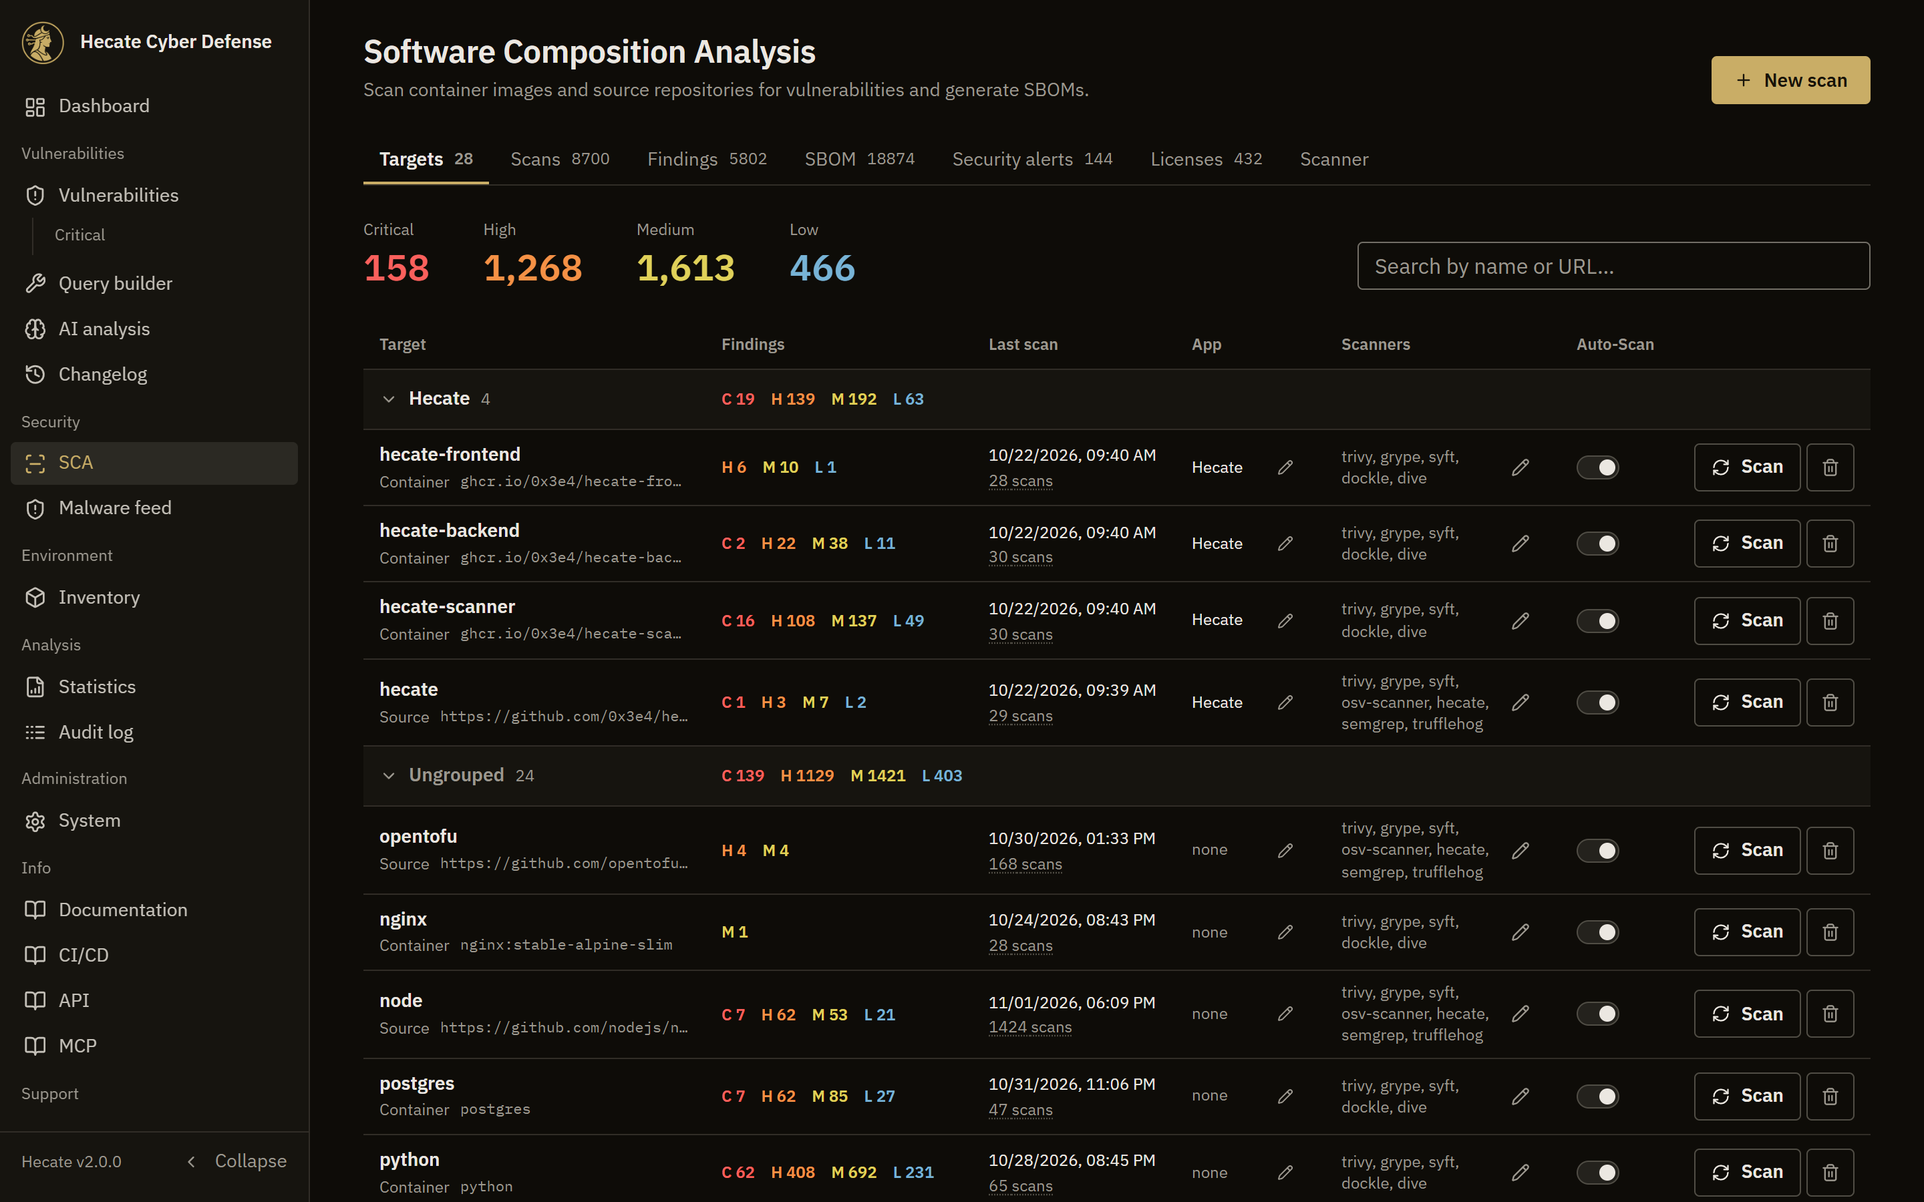
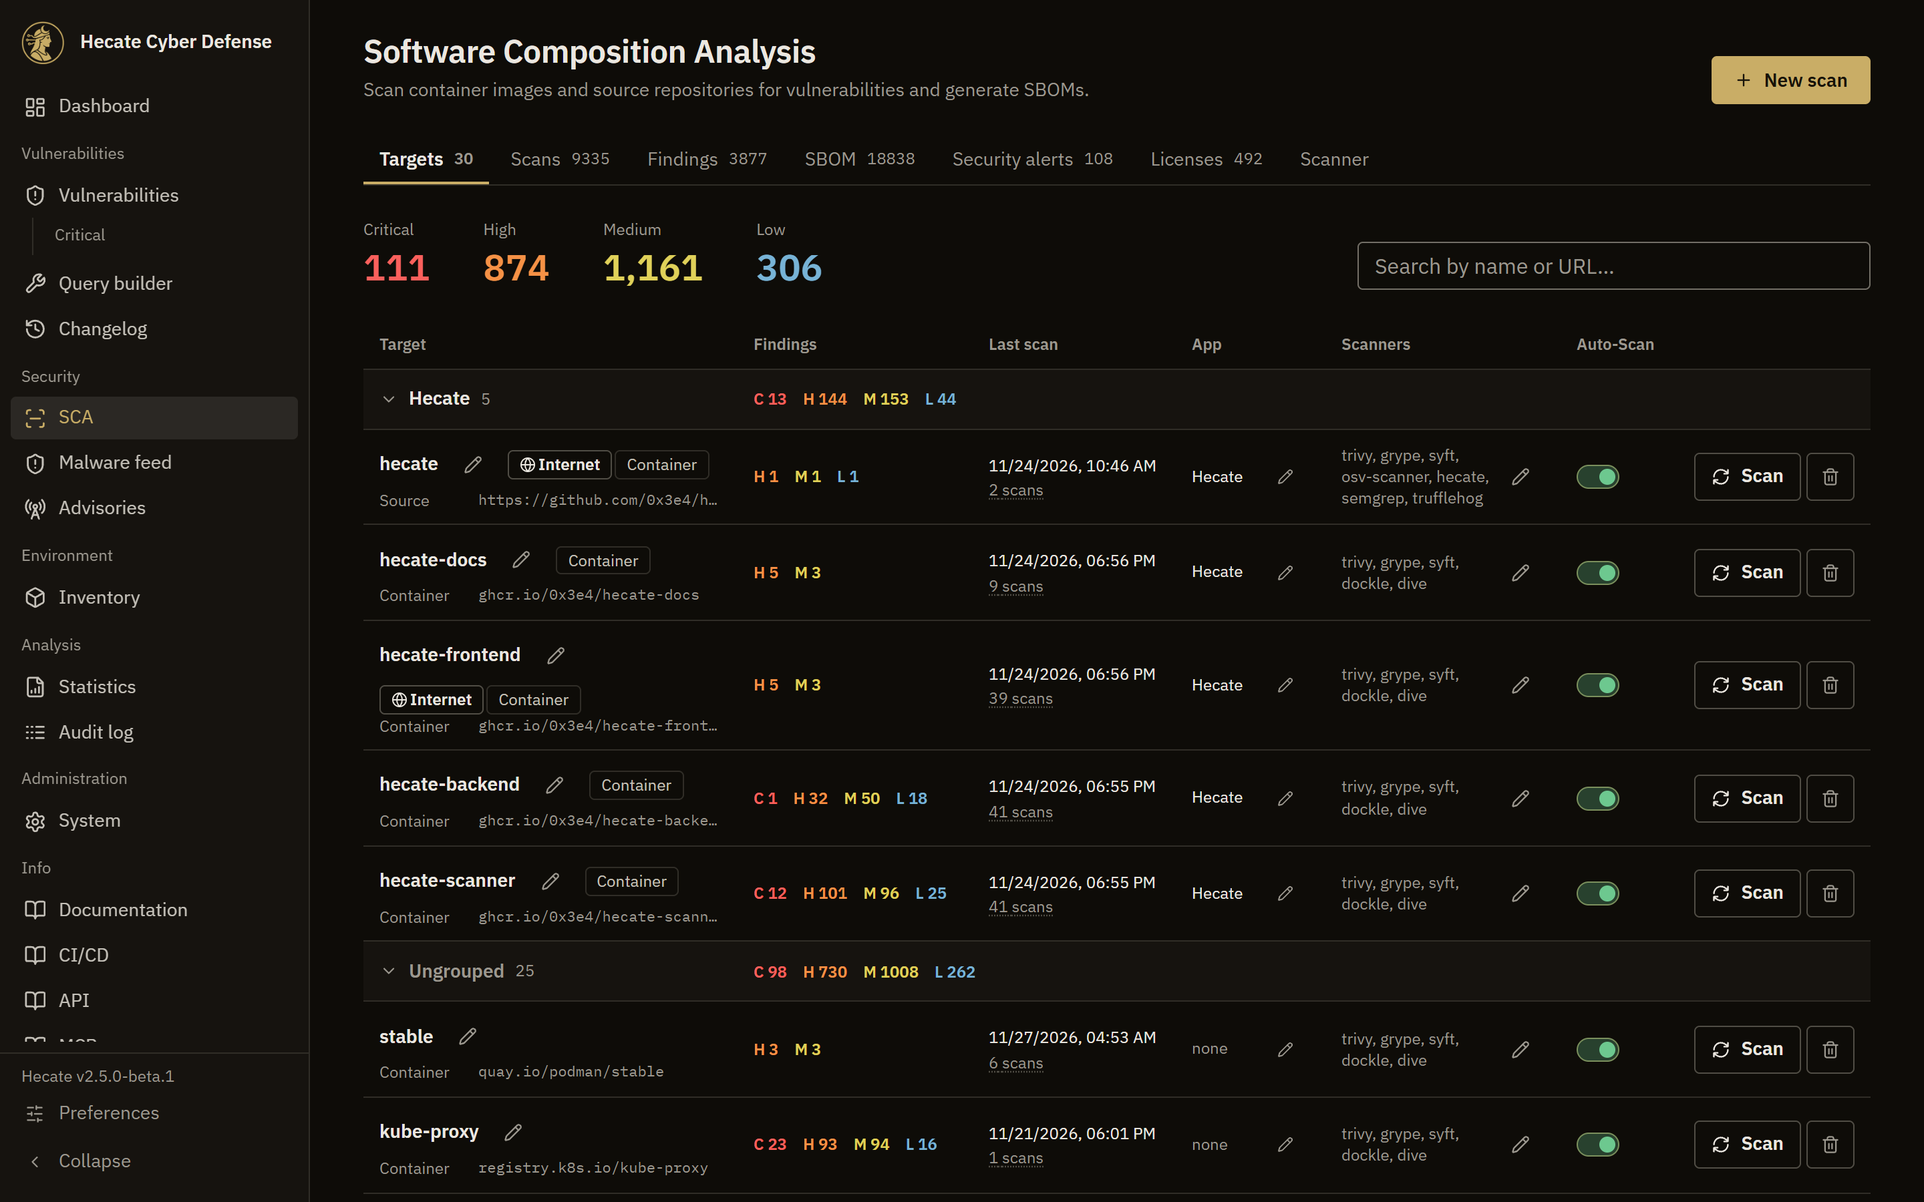
docs: cover the 2.5.0 beta features, new screenshots
Upgrade note for the osv-db volume, trufflehogVerification and kind /
exposure through the API, system notification rule fields, server lists on
System > Data and in the audit log, INVENTORY_SYSTEM_STALE_DAYS, the
dashboard's missing-ID notice and quiet findings, control characters in
URLs. Screenshots of the dashboard, SCA targets, target page, vulnerability
page, inventory and SBOM tab retaken on 2.5.0-beta.1, new ones for
Inventory > Systems, the preferences panel and the target settings cards.

diff --git a/README.md b/README.md
@@ -212,8 +212,8 @@ flowchart TB
 | **Provenance verification** | npm, PyPI, Go, Maven, RubyGems, Cargo, NuGet, Docker — Sigstore, PEP 740, Go sumdb, Cosign. |
 | **Attack-path graph** | Per-CVE deterministic Mermaid graph (`entry → asset → package → CVE → CWE → CAPEC → exploit → impact → fix`) with optional AI narrative. |
 | **Cross-CVE attack chain** | Per-scan ATT&CK kill-chain narrative bucketing all findings into Foothold → Credential Access → Privilege Escalation → Lateral Movement → Impact. |
-| **Environment inventory** | User-declared products + versions matched against the catalogue for impact callouts and a dedicated notification rule type, with a change history (each change can carry a note such as a ticket or server), version reports from your deployment pipeline, and a duplicate action for the next server of the same product. |
-| **API tokens** | Named tokens with scopes (`scan:submit`, `inventory:report`) and an optional expiry, managed on System → Access Control. |
+| **Environment inventory** | User-declared products + versions matched against the catalogue for impact callouts and a dedicated notification rule type, with a change history (each change can carry a note such as a ticket or server), version reports from your deployment pipeline, and a duplicate action for the next server of the same product. **Systems** (servers, VMs, nodes) come from SBOM pushes or server lists (CSV, Ansible inventories, also fetched on a schedule) and show which of them report and which went silent. |
+| **API tokens** | Named tokens with scopes (`scan:submit`, `inventory:report`, `sbom:import`, `inventory:sync`) and an optional expiry, managed on System → Access Control. |
 | **Sign-in (OIDC) & audit trail** | Optional web sign-in through any OIDC provider (Keycloak, Authelia, Authentik, Zitadel, Pocket ID, Entra ID) with admin / editor / viewer roles mapped from groups, server-side sessions, an optional login requirement for reads, and every API write recorded with the person or credential behind it. Passwords and tokens keep working alongside. |
 | **MCP server** | 53 tools, OAuth 2.0 with delegated auth (GitHub / Microsoft / OIDC), DCR + PKCE, scope-gated writes. |
 | **Notifications** | Apprise integration with rules, watch queries, message templates, and per-tag channel routing. |
@@ -359,7 +359,7 @@ scanner/
 | Changelog | Recent vulnerability changes with date and job filters. |
 | SCA scans | Targets, scans, consolidated findings, SBOM (sortable, provenance filter), licenses, scanner monitoring. |
 | Scan detail | Findings (multi-select VEX, dismissal toggle), **Attack Chain**, SBOM, history, compare, security alerts, SAST, secrets, best practices, layer analysis, license compliance. |
-| Inventory | User-declared products + versions matched against the catalogue. Compact status rows (click to expand the affecting CVEs), a "Flagged CVEs" roll-up table, a modal add/edit form, and endoflife.date support / end-of-life status per item (with the product page link, support-until date and LTS). |
+| Inventory | Two tabs. **Products**: user-declared products + versions matched against the catalogue, compact status rows (click to expand the affecting CVEs), sort and filters, a "Flagged CVEs" roll-up table, a modal add/edit form, and endoflife.date support / end-of-life status per item. **Systems**: servers, VMs and nodes with their last report, report status and products, imported from server lists. |
 | Malware feed | Overview of all MAL-aliased OSV advisories (~417 k records, server-paginated). |
 | System | 5 tabs: General, Access Control (per-target write passwords), Notifications, Data, Policies. |
 | Support | In-app diagnostics: per-component version check (backend / frontend / scanner) against the latest `main-<sha>` images on GHCR via `GET /api/v1/version`. |

diff --git a/docs/admin/system.md b/docs/admin/system.md
@@ -26,10 +26,10 @@ linked in the last column.
 
 | Tab | What you do here | More detail |
 | --- | --- | --- |
-| **General** | Set the UI language and display timezone, cap the AI batch size, check service health, send a test notification, and back up / restore data. | this page |
+| **General** | Cap the AI batch size, check service health, send a test notification, and back up / restore data. Language and timezone are personal, under **Preferences** in the sidebar. | this page |
 | **Access Control** | Create and revoke API tokens, and set or clear a per-target write password for each scan target. | [Security & Access Control](../security-access-control.md) |
 | **Notifications** | Manage Apprise channels, notification rules, and message templates. | [Notifications](../integrations/notifications.md) |
-| **Data** | Watch the sync status of all ten sources, trigger syncs by hand, re-sync or delete specific vulnerabilities, and manage saved searches. | this page |
+| **Data** | Watch the sync status of every source, trigger syncs by hand, manage advisory feeds and the server lists Hecate fetches, re-sync or delete specific vulnerabilities, and manage saved searches. | this page, [Fetched lists](../guide/inventory.md#fetched-lists) |
 | **Policies** | Define SPDX license policies that are evaluated after every scan, and automatic VEX rules. | [License Compliance](../sca/licenses.md), [VEX rules](#vex-rules) |
 
 ## General
@@ -87,8 +87,8 @@ environment variables involved — lives in [Security & Access Control](../secur
 
 The Notifications tab manages the three building blocks of Hecate's alerting: **channels** (Apprise
 URLs that say *where* a message goes, each carrying a routing tag), **rules** (that say *when* to fire
-— on system events, saved-search matches, vendor/product/DQL matches, scan results, inventory hits, or
-retroactive malware alerts), and **message templates** (that customise the title and body per event
+— on system events, saved-search matches, vendor/product/DQL matches, scan results, inventory hits,
+inventory systems that report new findings, stop reporting or are retired, or retroactive malware alerts), and **message templates** (that customise the title and body per event
 type using `{placeholder}` variables and `{#each}…{/each}` loops).
 
 Channels, rules, and templates each have an add button, an inline editor, and a list with edit/delete
@@ -104,6 +104,13 @@ intelligence feeding the platform is fresh, and gives you the controls to repair
 records when something looks wrong.
 
 ![System page — Data tab](../img/hecate-system-data.png)
+
+**Advisory feeds** and **Server lists** sit on this tab too. Advisory feeds are the CERT, vendor and
+community feeds behind the [Advisories](../guide/cert.md) page (adding one is described in the
+[dashboard guide](../guide/dashboard.md)). Server lists are the lists of servers Hecate fetches on a
+schedule for the inventory's systems: a URL, a format, *Keep* or *Retire*, an interval and an optional
+credential, with **Preview** and **Fetch now**. Both are admin-only; see
+[Fetched lists](../guide/inventory.md#fetched-lists).
 
 ### Sync status
 

diff --git a/docs/guide/dashboard.md b/docs/guide/dashboard.md
@@ -45,9 +45,12 @@ If the ID is **not** in the local database, a notice below the box offers to fet
 
 ### Fetching a missing ID
 
-When a lookup misses, Hecate doesn't just shrug — it can pull the record on demand. The notice
-explains that the vulnerability hasn't been synchronised yet and offers a **Load from
-NVD/EUVD/GHSA** button (with a **Cancel** alongside).
+When a lookup misses, Hecate can pull the record on demand. A notice opens over the page, says the
+vulnerability hasn't been synchronised yet and offers a **Load from NVD/EUVD/GHSA** button (with a
+**Cancel** alongside). Fetching writes to the database, so the notice says beforehand what it takes:
+with sign-in, the button reads **Sign in and load** and the fetch starts on its own after the sign-in;
+without sign-in but with a system password, you are asked for that password first; a signed-in role
+below editor can't fetch, and the button is disabled.
 
 Clicking it dispatches a one-off refresh for that single identifier against the upstream sources.
 CVE-prefixed IDs are looked up by CVE number; everything else is resolved by its source ID. The
@@ -79,8 +82,9 @@ remediation due date. **KEV listings** opens the catalogue additions in the
 [full overview](cert.md).
 
 Scan findings that only one source named do not get a row: a single round-up can name dozens of kernel
-CVEs that every container image carries, which is routine patching rather than an alarm. They fold
-away at the bottom of the panel, one row per product, and stay in your scan results as usual.
+CVEs that every container image carries, which is routine patching rather than an alarm. They sit at
+the bottom of the panel as *N more in your scans, named by one source*, one row per product, open by
+default; fold them and the browser remembers it. They stay in your scan results as usual.
 
 The panel reloads whenever new data is ingested, and it is not shown when nothing qualifies.
 
@@ -95,7 +99,7 @@ URL and kind, switches them on and off, and starts a run with **Read now**. Chan
 password. A Mastodon account has its feed at `https://<instance>/@<user>.rss`. A feed added here must
 point at a public address: the backend fetches it, and what it reads is shown on a public page, so a
 host that resolves to a private, loopback or link-local address is refused, both when it is saved and
-before every run. Set `CERT_FEEDS_ALLOW_PRIVATE_HOSTS=true` to read a feed on your internal network.
+before every run, and so is a URL with control characters. Set `CERT_FEEDS_ALLOW_PRIVATE_HOSTS=true` to read a feed on your internal network.
 
 **In `.env`.** `CERT_FEEDS_EXTRA` takes comma-separated `Name|URL` or `Name|URL|kind` entries; without a
 kind a feed counts as a CERT:

diff --git a/docs/integrations/api.md b/docs/integrations/api.md
@@ -69,6 +69,8 @@ The table below covers the endpoints you will use most. It is a curated shortlis
 | `PUT` / `DELETE` | `/api/v1/inventory/systems/sources/{id}` | Change (partial; send `url` only when it changed, `authHeaderValue: ""` removes the credential) or remove one (admin) |
 | `POST` | `/api/v1/inventory/systems/sources/{id}/pull` | Fetch now; `dryRun` reports, `force` passes the half-of-the-list guard; a failed fetch answers `ok: false` (admin) |
 | `GET` / `PUT` / `DELETE` | `/api/v1/inventory/systems/{id}` | One system; change it (partial, `null` clears) or remove it (its findings stay) |
+| `GET` | `/api/v1/scans/targets` | Scan targets; each carries `systemId` when an inventory system holds it, `systems=false` leaves those out |
+| `GET` | `/api/v1/inventory/{id}/affected-vulnerabilities` | The CVEs affecting one inventory item, each with `lastChangeAt` (sorting and the *new* tag); items list the systems they run on as `systemIds` |
 | `GET` | `/api/v1/inventory/{id}/history` | The change log of one inventory item |
 | `GET` | `/api/v1/assets/vendors`, `/api/v1/assets/products` | Catalog search ranked by relevance; the first 25 hits carry `vulnerabilityCount` |
 | `GET` `POST` `DELETE` | `/api/v1/api-tokens` | List, create and revoke API tokens. Always needs `SYSTEM_PASSWORD`, also to read |

diff --git a/docs/sca-scanning.md b/docs/sca-scanning.md
@@ -136,12 +136,18 @@ password) and lands in the
 archives) always use the scanner default. With [no external lookups](#no-external-lookups) on, TruffleHog
 never verifies, whatever this setting says.
 
+Through the API it is `trufflehogVerification` on `PATCH /api/v1/scans/targets/{id}`: `true` (verify), `false`
+(don't) or `null` (scanner default); the target carries the same field, and MCP `list_scan_targets` shows it.
+Update the scanner together with the backend: an older scanner ignores the setting and uses its default.
+
 ## No external lookups
 
 Several scanners ask outside services about what they find in your code: a registry about each package
 name, OSV.dev about the package list, a provider about a secret. For public code that costs nothing.
 For private code it can: internal package and module names, the shape of your dependency tree and found
 credentials leave your network. **No external lookups** keeps all of that in.
+
+![Target page: the VEX sources, System and External lookups cards](img/hecate-target-settings.png)
 
 Turn it on per target: target page → **External lookups** → **No external lookups**. Changing it needs
 the same rights as the target's other settings (admin, editor, or the target's password), lands in the

diff --git a/docs/sca/hosts.md b/docs/sca/hosts.md
@@ -32,7 +32,8 @@ install.
 - **Kind and exposure.** Mark a target as a host (a server, VM or workstation, whatever its OS),
   Kubernetes node, container or other, and as internet-facing or internal. A vulnerability's **Affected in your scans** block lists internet-facing systems first
   with an *Internet-facing* chip, so "where does the nginx with the RCE run, and is it exposed" is one
-  page.
+  page. Set them with the import (`kind`, `exposure`), on the target page's **System** card, or with
+  `PATCH /api/v1/scans/targets/{id}` (`kind`, `exposure`; `null` clears).
 - **Statuses that stay.** VEX statuses and dismissals set on a system's findings carry over to its next
   push, as they do from scan to scan.
 
@@ -183,6 +184,8 @@ only needs a small job that posts each CycloneDX or SPDX file it exports. Contai
 or pull are better scanned as image targets (**New scan**), which also runs the image-only checks.
 
 ## Where it shows
+
+![Inventory → Systems](../img/hecate-inventory-systems.png)
 
 - **Inventory → Systems**: every system, when it last reported, its worst finding and the products that
   run on it.

diff --git a/docs/deployment.md b/docs/deployment.md
@@ -145,6 +145,25 @@ docker compose pull && docker compose up -d
 Read the [changelog](changelog.md) before you update. A release that changes ports, routing or
 required settings says so at the top of its entry.
 
+!!! note "Upgrading to 2.5.0: the `osv-db` volume"
+    A target with [no external lookups](sca-scanning.md#no-external-lookups) has OSV-Scanner match
+    against a local copy of the OSV database. Without a volume that copy sits on the scanner's `/tmp`
+    tmpfs and is downloaded again after every restart. Like the `grype-db` volume, add to your own
+    `docker-compose.yml`:
+
+    ```yaml
+    services:
+      scanner:
+        environment:
+          OSV_SCANNER_LOCAL_DB_CACHE_DIRECTORY: /osv-db
+        volumes:
+          - osv-db:/osv-db
+    volumes:
+      osv-db:
+    ```
+
+    Without it everything else works as before.
+
 !!! warning "Upgrading from 2.3.0-beta.6 or older"
     The frontend listens on **8080** instead of 4173, the backend publishes no port, and the reverse
     proxy sends everything to the frontend. Take `docker-compose.yml.example` over into your

diff --git a/docs/sca/scan-results.md b/docs/sca/scan-results.md
@@ -290,8 +290,8 @@ on all scans of the target. **Apply now** fetches them again on demand.
   still applies after the package was updated. Keep sources the vendor maintains, not frozen copies.
 - The card shows per source what the last fetch found (format and number of statements, or why it failed) and
   how many findings were set or removed.
-- A `github.com/…/blob/…` link is turned into its raw file. URLs with credentials, plain http and hosts that
-  resolve to private addresses are refused (see [Security & Access Control](../security-access-control.md)).
+- A `github.com/…/blob/…` link is turned into its raw file. URLs with credentials, plain http, control
+  characters and hosts that resolve to private addresses are refused (see [Security & Access Control](../security-access-control.md)).
 
 Hecate publishes VEX documents for its own images, so a scan of `ghcr.io/0x3e4/hecate-backend` with
 `https://raw.githubusercontent.com/0x3e4/hecate/main/vex/hecate-backend.openvex.json` as its source shows how it

diff --git a/docs/guide/inventory.md b/docs/guide/inventory.md
@@ -9,13 +9,15 @@ Once an entry matches, the result surfaces in several places at once: an expanda
 The page has two tabs. **Systems** lists the servers, VMs and nodes you run and whether each one still
 sends its SBOM; **Products** holds the products and versions described below.
 
-![The Environment Inventory page with declared items and their affecting CVEs](../img/hecate-inventory.png)
+![Inventory → Products: declared items with their worst severity, CVE count and end-of-life status](../img/hecate-inventory.png)
 
 ## Systems
 
 A system is a place: a server, a VM, a Kubernetes node, a gateway. What is installed on it arrives as an
 SBOM or scanner report that the system pushes ([Hosts, Nodes & Other Systems](../sca/hosts.md)); the
 system keeps its latest findings and its history from those pushes.
+
+![Inventory → Systems: each system with its last report, worst severity, findings and products](../img/hecate-inventory-systems.png)
 
 Systems get onto the list in three ways:
 

diff --git a/docs/admin/audit.md b/docs/admin/audit.md
@@ -27,7 +27,10 @@ data feeds — EUVD, NVD, CISA KEV, CPE, CWE, CAPEC, CIRCL, GHSA and OSV — eac
 regular incremental sync and an "initial sync" variant for the first full bootstrap, plus the Advisory
 Feed, Nuclei Templates and (with a token) VulnCheck KEV syncs. Alongside those
 you will see manual CVE refreshes, saved-search create/update/delete actions, SCA scans, AI analyses
-(single and batch), attack-path narrative generation, the MAL-* deps.dev enrichment backfill, and
+(single and batch), attack-path narrative generation, the MAL-* deps.dev enrichment backfill,
+server-list fetches (`inventory_list_pulled`: manual ones always, scheduled ones when they changed
+something or failed for the first time), changes to the fetched lists
+(`inventory_list_source_added` / `_updated` / `_removed`, the URL masked, never the credential), and
 MCP tool calls and OAuth events. In short, anything that touches data or runs as a tracked job leaves
 a trace.
 

diff --git a/docs/integrations/notifications.md b/docs/integrations/notifications.md
@@ -141,6 +141,13 @@ Tick what it reports:
 **Exposure**, **Groups** (any of them) and **Systems** narrow which systems the rule covers; leave them
 empty for all. Messages use the event keys `system_findings`, `system_stale` and `system_retired`.
 
+Only SBOM and report imports of a system send *New findings*; scans of other targets keep using the scan
+rules. A rule's first stale check only starts the clock (like the [anti-storm bootstrap](#the-anti-storm-bootstrap)
+below), and changing a rule's type starts it again. Through the API the rule is `ruleType: "system"` with
+`eventTypes` (at least one of `system_findings`, `system_stale`, `system_retired`), `systemIds`,
+`systemGroups`, `systemExposure` (`internet` or `internal`) and `scanSeverityThreshold` for the lowest
+severity.
+
 ### The anti-storm bootstrap
 
 The first time a watch rule (or any rule that scans for new matches) is evaluated, it does **not** send

diff --git a/docs/configuration.md b/docs/configuration.md
@@ -388,6 +388,7 @@ Lists Hecate fetches for the inventory's systems ([fetched lists](guide/inventor
 | `INVENTORY_LIST_SOURCES_ALLOW_PRIVATE_HOSTS` | `false` | Let server lists point at private, loopback or link-local addresses. Off, such a list is refused when saved and fails before every fetch. |
 | `INVENTORY_LIST_SOURCE_TIMEOUT_SECONDS` | `30` | Timeout of one fetch (5 to 300). |
 | `SCHEDULER_INVENTORY_LIST_SOURCES_CHECK_MINUTES` | `5` | How often the scheduler looks for lists whose own interval has passed. |
+| `INVENTORY_SYSTEM_STALE_DAYS` | `3` | Days without a report after which a system reads *stale* and an *Inventory system* rule reports it as stopped. |
 | `SCHEDULER_INVENTORY_SYSTEM_WATCH_MINUTES` | `60` | How often *Inventory system* notification rules look for systems that stopped reporting (5 to 1440; only with `NOTIFICATIONS_ENABLED`). |
 
 ## Inventory enrichment (endoflife.date)
